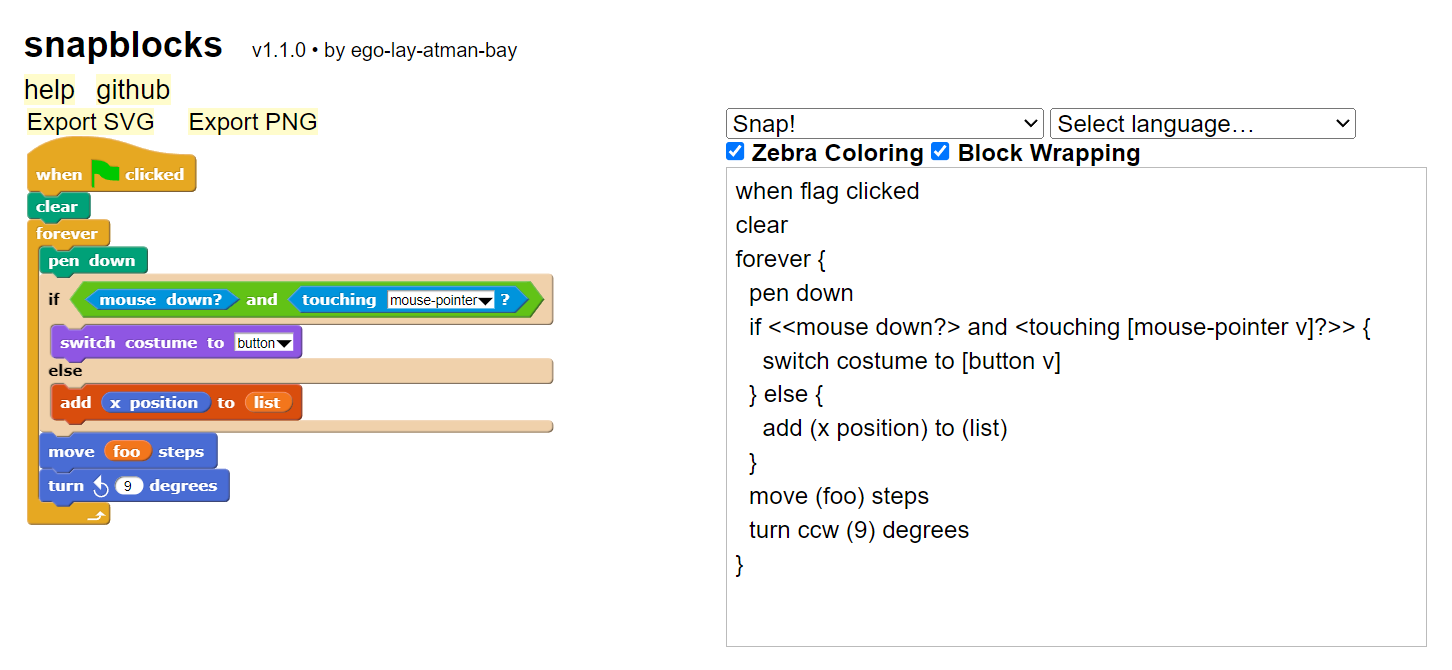
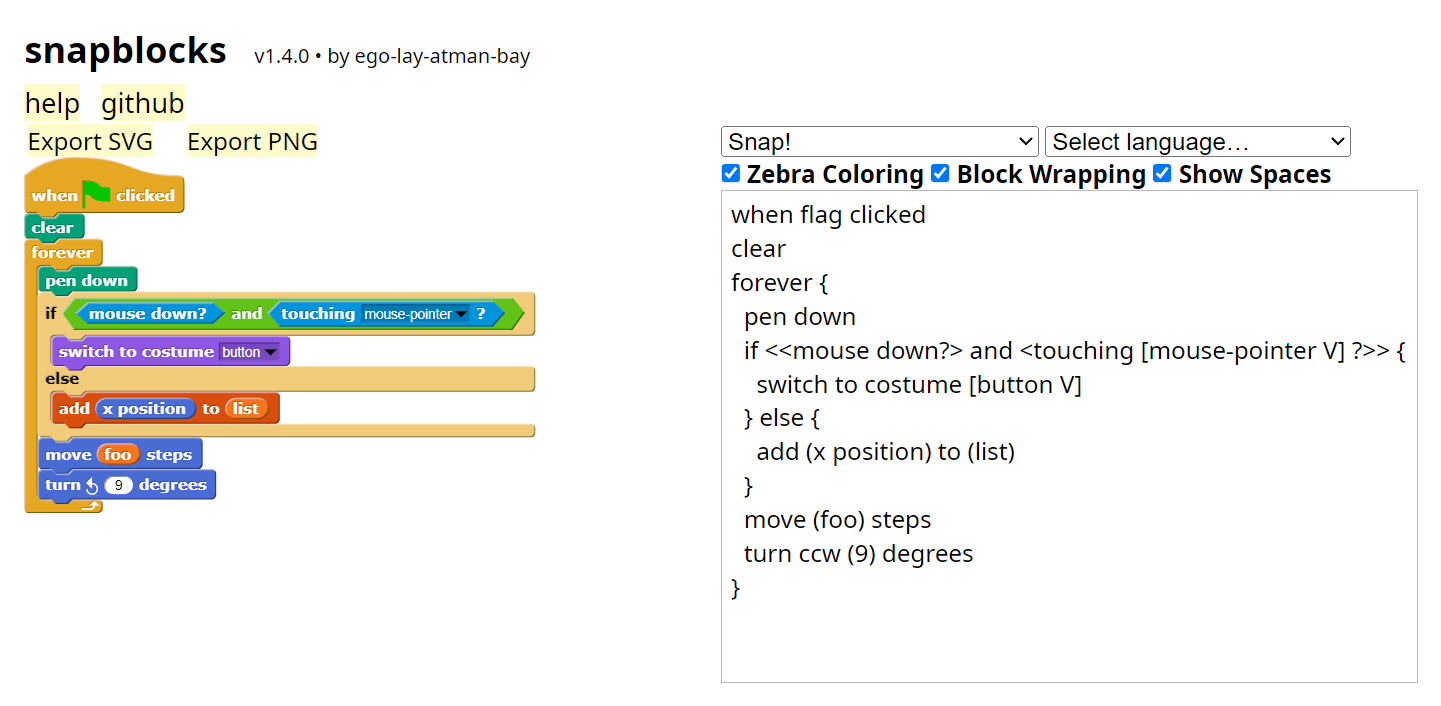
update screenshot (and link)

diff --git a/README.md b/README.md
@@ -1,6 +1,6 @@
 Make pictures of Snap<i>!</i> blocks from text.
 
-[![Screenshot](./readme-assets/images/screenshot.png)](http://snap-blocks.github.io/#?style=snap&script=when%20flag%20clicked%0Aclear%0Aforever%20%7B%0A%20%20pen%20down%0A%20%20if%20%3C%3Cmouse%20down%3F%3E%20and%20%3Ctouching%20%5Bmouse-pointer%20v%5D%3F%3E%3E%20%7B%0A%20%20%20%20switch%20costume%20to%20%5Bbutton%20v%5D%0A%20%20%7D%20else%20%7B%0A%20%20%20%20add%20(x%20position)%20to%20(list)%0A%20%20%7D%0A%20%20move%20(foo)%20steps%0A%20%20turn%20ccw%20(9)%20degrees%0A%7D)
+[![Screenshot](./readme-assets/images/screenshot.png)](https://snap-blocks.github.io/?style=snap&zebraColoring=&wrap=&showSpaces=&script=when%2520flag%2520clicked%250Aclear%250Aforever%2520%257B%250A%2520%2520pen%2520down%250A%2520%2520if%2520%253C%253Cmouse%2520down%3F%253E%2520and%2520%253Ctouching%2520%255Bmouse-pointer%2520V%255D%2520%3F%253E%253E%2520%257B%250A%2520%2520%2520%2520switch%2520to%2520costume%2520%255Bbutton%2520V%255D%250A%2520%2520%257D%2520else%2520%257B%250A%2520%2520%2520%2520add%2520%28x%2520position%29%2520to%2520%28list%29%250A%2520%2520%257D%250A%2520%2520move%2520%28foo%29%2520steps%250A%2520%2520turn%2520ccw%2520%289%29%2520degrees%250A%257D)
 
 
 **[Try it out!](https://snap-blocks.github.io/)**
